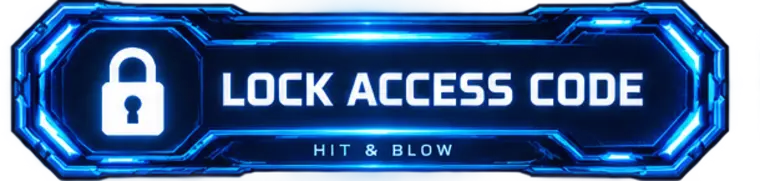
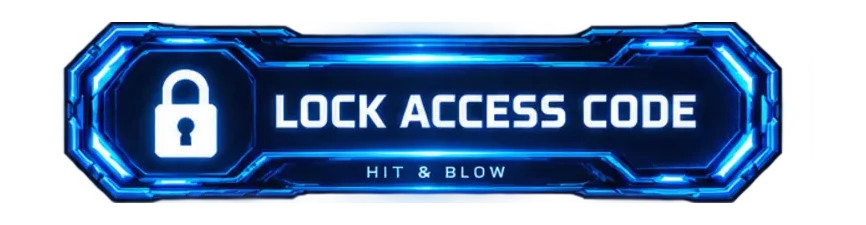
Add files via upload

diff --git a/public/style.css b/public/style.css
@@ -3760,54 +3760,33 @@ body.dm-open{overflow:hidden!important}
   .hitblow-page .battle-home-btn.hb-result-home{width:min(100%,236px)!important}
 }
 
-.janken-page .hb-status.jk-art-status{
-  width:132px!important;
-  min-width:132px!important;
-  height:auto!important;
-  min-height:0!important;
-  padding:0!important;
-  margin:0!important;
-  border:0!important;
-  background:transparent!important;
-  box-shadow:none!important;
+
+/* v5.82 — HIT & BLOW asset edge fix + keep art fully inside controls */
+.hitblow-page .hb-status.art-status,
+.hitblow-page .hb-lock.hb-art-button,
+.hitblow-page .hb-history-open.hb-art-button,
+.hitblow-page .hb-history-sheet-head .hb-modal-close,
+.hitblow-page .battle-home-btn.hb-result-home{
   overflow:visible!important;
 }
-.janken-page .hb-status.jk-art-status img{
+.hitblow-page .hb-status.art-status .hb-status-art,
+.hitblow-page .hb-lock.hb-art-button img,
+.hitblow-page .hb-history-open.hb-art-button img,
+.hitblow-page .hb-history-sheet-head .hb-modal-close img,
+.hitblow-page .battle-home-btn.hb-result-home img{
+  clip-path:none!important;
   display:block!important;
   width:100%!important;
+  max-width:100%!important;
   height:auto!important;
   object-fit:contain!important;
+  object-position:center!important;
+  overflow:visible!important;
 }
-.janken-page .jk-result-mark.jk-art-result-mark{
-  left:50%!important;
-  bottom:-5px!important;
-  width:64px!important;
-  height:auto!important;
-  padding:0!important;
-  border:0!important;
-  background:transparent!important;
-  color:transparent!important;
-  box-shadow:none!important;
-  transform:translateX(-50%)!important;
-}
-.janken-page .jk-result-mark.jk-art-result-mark img{
-  display:block!important;
-  width:100%!important;
-  height:auto!important;
-}
-.janken-page .result-winner .battle-avatar-wrap{
-  box-shadow:0 0 18px rgba(68,255,205,.16)!important;
-}
-.janken-page .result-loser .battle-avatar-wrap{
-  box-shadow:0 0 18px rgba(255,82,111,.12)!important;
-}
+/* Slightly smaller result/history controls; padded source art now includes its own safe transparent edge. */
+.hitblow-page .hb-history-open.hb-art-button{width:min(100%,214px)!important}
+.hitblow-page .battle-home-btn.hb-result-home{width:min(100%,224px)!important}
 @media(max-width:620px){
-  .janken-page .hb-status.jk-art-status{
-    width:118px!important;
-    min-width:118px!important;
-  }
-  .janken-page .jk-result-mark.jk-art-result-mark{
-    width:58px!important;
-    bottom:-4px!important;
-  }
+  .hitblow-page .hb-history-open.hb-art-button{width:min(100%,202px)!important}
+  .hitblow-page .battle-home-btn.hb-result-home{width:min(100%,214px)!important}
 }
